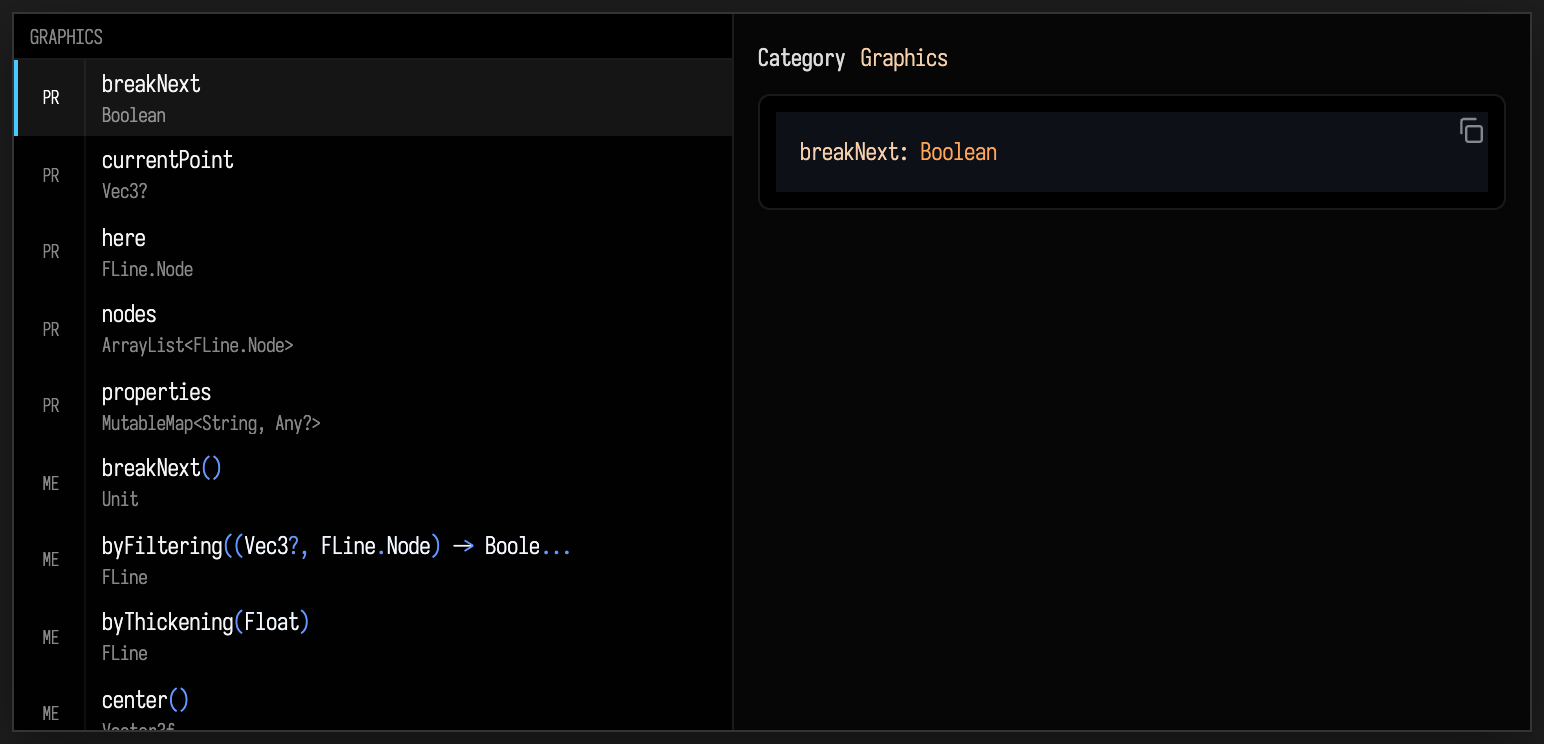
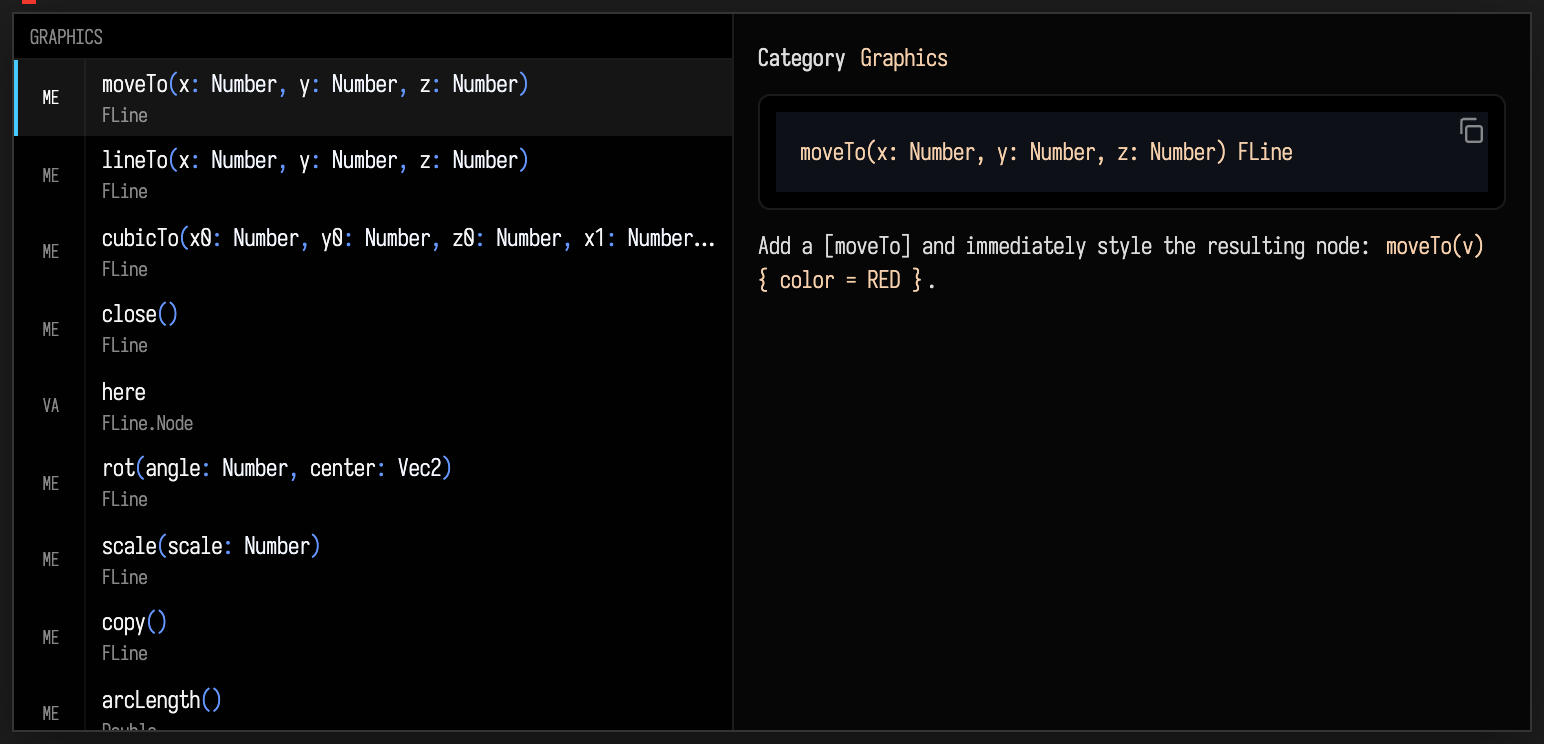
docs(completion): re-cut the popup page for the backend it now captures
`how_the_popup_decides.md` was written against a figure of the K1 fallback, and said so at length
because at the time that was the honest reading of it. The docs build now captures the Analysis API
backend a user gets, so the figure shows FLine's eight `@CommonMembers` in declared order —
`moveTo`, `lineTo`, `cubicTo`, `close`, `here`, `rot`, `scale`, `copy`, then the first member the
class says nothing about — and three passages that rested on the old capture are no longer true.

Rewritten rather than deleted. "What the figure used to show, and why" keeps the whole episode: the
alphabetical rows, the interaction log's `25.988, 25.976, 25.964 …` descending by exactly the
`originalIndex * 0.012` tie-break with the prior at 0, and both defects behind it. A page whose
first figure once contradicted it should say so — that is the most instructive thing on it, and
deleting the evidence would leave the argument weaker than the page it replaced.

Also re-cut: the alt text (it described rows that are no longer there), the fence comment on what
`warm-completion=true` now buys, the re-run note (measured: this audit reproduced the popup
byte-for-byte and grades the prior table `jitter` at maxΔ9, not `identical`), section 3 on where
the receiver's qualified name comes from on each path, and troubleshooting item 2 — the prior is
now in play on the K1 path, so the thing to suspect during the first second is the *section*, which
[…]

diff --git a/public/docs/how_the_popup_decides.md b/public/docs/how_the_popup_decides.md
@@ -86,6 +86,12 @@ into a **1-based position**, or `0` for "this type said nothing". Resolution:
 - **hits and misses are both cached.** This runs per keystroke, and the overwhelmingly common answer
   is "this type has no annotation".
 
+The qualified name comes from the candidate itself when the Analysis API served the completion. When the
+K1 fallback did, no candidate carries one, and the server resolves the caret's receiver itself instead —
+the live value's own class, else the declared type, else the constructor called to make it. Without that
+the prior would be silently absent for the first `ctrl-space` after launch, which is the popup most
+people meet first; [what the figure used to show](#what-the-figure-used-to-show-and-why) is that story.
+
 The position rides across the wire as `Metadata.commonMemberRank`.
 
 ### 4. The browser scores every row
@@ -137,28 +143,32 @@ to first.
 ## Seeing it
 
 Both figures below are generated by the docs build against a live Field, on the machine that built
-this page. Neither is a drawing, and neither has been arranged to agree with the prose — the first one
-in fact contradicts what this page would have liked it to show, which is why the paragraphs under it
-are the most useful ones here.
+this page. Neither is a drawing, and neither has been arranged to agree with the prose. The first one
+spent its first days *contradicting* this page, which turned out to be the most useful thing it ever
+did: two real defects were hiding behind it, and [what the figure used to show](#what-the-figure-used-to-show-and-why)
+is now the best-documented part of this page.
 
-*For anyone re-running the build: `docs_capture_audit --repeat 2` grades the prior table `identical`
-and the popup `jitter`. The popup's clip has a few intermittent pixels at its extreme top-left, inside
-the padding and outside the panel; the rows, the section header and the doc panel are the same every
-time. The prior table is deterministic — if it ever changes, something real changed.*
+*For anyone re-running the build: measured 2026-08-18, `docs_capture_audit --repeat 2` reproduced the
+popup byte-for-byte across both runs, and graded the prior table `jitter` at maxΔ9 on 0.0056% of pixels
+— antialiasing, not content. Both are otherwise deterministic, so if either changes materially,
+something real changed. The popup's clip has also been seen to pick up a few dozen intermittent pixels
+at its extreme top-left, inside the padding and outside the panel; the rows, the section header and the
+doc panel have been identical every time.*
 
 The first is a real `ctrl-space`: a box containing `val f = FLine()` and a bare `f.`, driven by real
-keypresses, with the popup panel photographed while it is open. **Read it for the section, not for the
-prior** — the paragraph under it says why, and it is the most useful thing on this page.
+keypresses, with the popup panel photographed while it is open — and served by the same Analysis API
+backend an ordinary `./field.sh` session uses, which it was not until 2026-08-18.
 
-```diffstatic_runner {data-lang=kotlin capture="ui" region="window" clip-selector=".afield-suggest" warm-completion=true screenshot="assets/popup-decides-fline-dot.png" padding="6" wait="0" timeout="140" embed=true hidden=true name="popup-decides-fline-dot" alt="A real Field completion popup at a bare dot on an FLine. A single section header reads GRAPHICS. Under it, five rows marked PR: breakNext (Boolean), currentPoint (Vec3?), here (FLine.Node), nodes (ArrayList<FLine.Node>), properties (MutableMap<String, Any?>); then rows marked ME: breakNext() (Unit), byFiltering((Vec3?, FLine.Node) -> Boole..., FLine), byThickening(Float) (FLine), center(). The documentation panel on the right reads Category Graphics above a signature card showing breakNext: Boolean."}
+```diffstatic_runner {data-lang=kotlin capture="ui" region="window" clip-selector=".afield-suggest" warm-completion=true screenshot="assets/popup-decides-fline-dot.png" padding="6" wait="0" timeout="140" embed=true hidden=true name="popup-decides-fline-dot" alt="A real Field completion popup at a bare dot on an FLine. A single section header reads GRAPHICS. Under it, in this order: moveTo(x: Number, y: Number, z: Number), lineTo(same), cubicTo(x0: Number, y0: Number, z0: Number, x1: Number...), close(), here (FLine.Node), rot(angle: Number, center: Vec2), scale(scale: Number), copy(), then arcLength(). Those are FLine's eight @CommonMembers in declared order, followed by the first member the class says nothing about. The documentation panel on the right reads Category Graphics above a signature card for moveTo and its documentation."}
 // Fresh and deterministic: clear the recency store so nothing this machine happens to have accepted
 // before outranks the prior, and hide the run-tick overlay — all of it, not just `.tick_text.ok`,
 // since `f.` is deliberately incomplete Kotlin and any tick here would be the error-coloured one.
 // Known and measured, so that nobody re-derives it: an INTERMITTENT few dozen pixels can appear at
-// the very top-left of this clip, inside the padding and outside the panel itself. Present in three
-// captures of four, absent in the fourth; `docs_capture_audit --repeat 2` scored it at 0.0049% of
-// pixels, maxΔ214. Purely cosmetic and disclosed rather than papered over — the rows, the section
-// header and the doc panel are identical every time, which is everything this figure is for.
+// the very top-left of this clip, inside the padding and outside the panel itself. Seen in three
+// captures of four, scored at 0.0049% of pixels, maxΔ214; absent from both runs of the 2026-08-18
+// audit, which reproduced this figure byte-for-byte. Purely cosmetic and disclosed rather than papered
+// over — the rows, the section header and the doc panel are identical every time, which is everything
+// this figure is for.
 ui.eval("window.localStorage.removeItem('field.suggest.recency.v1'); var s=document.createElement('style');s.textContent='.tick_text{display:none !important}';document.head.appendChild(s);return 'setup';")
 ui.openEditor(id)
 ui.pause(700)
@@ -168,49 +178,72 @@ ui.press("Control+A")
 ui.type("val f = FLine()\nf.")
 ui.pause(400)
 ui.press("Control+Space")
-// warm-completion=true built the completion engine up front, so the enriched reply — the one that
-// carries a category and a commonMemberRank per row — arrives promptly. Wait for a row rather than
-// guessing a pause; a cold first completion can take seconds.
+// warm-completion=true builds the completion engine up front AND waits for the Analysis API session
+// to actually serve, so this is a photograph of the backend a user gets rather than of the K1 fallback
+// (which is what it was until 2026-08-18 — see below). Wait for a row rather than guessing a pause;
+// a cold first completion can take seconds.
 ui.waitForSelector(".afield-suggest-row", 20000.0)
 ui.pause(1400)
 ```
 
-**Read that figure carefully, because it is not showing you the prior working.** One `GRAPHICS` header
-and nothing else, which *is* the sectioning claim confirmed — every `FLine` member is categorised from
-where it is declared, so they all land in one section. But the order inside it is `breakNext,
-currentPoint, here, nodes, properties` and then `breakNext(), byFiltering, byThickening, center()`:
-properties alphabetically, then methods alphabetically. `moveTo`, position 1 in `FLine`'s
-`@CommonMembers`, is not in the visible top nine. **In that capture the prior contributed nothing.**
+**That is the prior working.** All eight of `FLine`'s `@CommonMembers` are there, in the order the
+annotation lists them — `moveTo`, `lineTo`, `cubicTo`, `close`, `here`, `rot`, `scale`, `copy` — and the
+first member the class says nothing about, `arcLength()`, comes ninth. One `GRAPHICS` header, which is
+the sectioning claim confirmed in the same picture: every `FLine` member is categorised from where it is
+declared, so they all land in one section, and inside one section the prior is free to decide.
 
-Field's own completion-interaction log for that exact interaction shows it in one number. All 80
-presented rows score `25.988, 25.976, 25.964, 25.952, 25.940, …` — each successive row exactly `0.012`
-lower, which is the `originalIndex * 0.012` tie-break and nothing else, descending from a constant equal
-to the `Graphics` category weight (26, as of `ee2d0655b`). Fuzzy is 0 at an empty prefix, recency is 0
-because the driver clears it, and the prior is 0. Category weight plus the server's order, no other term
-in play.
+### What the figure used to show, and why
 
-### Which is it — the harness, or your editor?
+This is worth a section rather than a footnote, because for its first days this figure showed the
+opposite and *nothing failed*. The rows were alphabetical — `breakNext`, `currentPoint`, `here`, `nodes`,
+`properties`, then `breakNext()`, `byFiltering`, `byThickening`, `center()` — with `moveTo` nowhere in the
+visible nine. Field's own completion-interaction log for that interaction gave the reason as one number:
+all 80 presented rows scored `25.988, 25.976, 25.964, …`, each exactly `0.012` below the one above,
+which is the `originalIndex * 0.012` tie-break and nothing else, descending from a constant equal to the
+`Graphics` category weight. Fuzzy is 0 at an empty prefix, recency is 0 because the driver clears it —
+and the prior was 0 on every row. Category weight plus the server's order, no other term in play.
 
-Those are very different facts, so what follows is measurement rather than inference. Read it before
-concluding anything about your own Field.
+Two defects, with one cause: `activeCompletionBackend` read `AA` in a process where nothing AA ever
+served a completion, and everything downstream believed the config rather than the log.
 
-**The figure above came from the docs build, and the docs build is the anomaly.** It starts Field with
-`./gradlew runJvm`. The thing that starts the Analysis API sidecar and exports its URL is `./field.sh`,
-the ordinary launcher, and nothing else. `AaCompletionClient` is explicit that with no URL configured it
-returns nothing and the caller falls through to K1. The capture Field's own log says exactly that:
+**The docs build was not exercising the backend a user gets.** It starts Field with `./gradlew runJvm`.
+`./field.sh` was the only thing in the tree that starts the Analysis API sidecar and exports its URL,
+and `AaCompletionClient` engages only when that URL is configured. So every completion figure in these
+docs was a photograph of the K1 fallback, and each capture's own log said so:
 
 ```text
 [info,completion] completion backend=K1 box='Untitled'(__docs_drive__) 2ms (AA→K1: no-sidecar-url)
 ```
 
-**An ordinary `./field.sh` session reaches the sidecar.** Measured in this same checkout: the launcher
-started one, it answered `{"ok":true,"backend":"k2-standalone"}`, and a real `ctrl-space` in that session
-logged `completion backend=AA … (44 candidates)`.
+The docs runner now starts, or reuses, the same sidecar `./field.sh` would; it warms that sidecar before
+a completion capture, because a fresh one answers *"session building"* for the first seconds of its life
+and falls back to K1 just as legitimately; and it **fails the fence** when the log for that capture says
+the completion fell back. A figure of the wrong backend is a wrong figure, and it should not be able to
+build green.
 
-**And on that path the prior has what it needs.** Asking that live sidecar's `/complete` for
-`val f = FLine()` then `f.`, with the running JVM's own classpath, returns **254 candidates, 248 of them
-carrying `receiverQualifiedName = afield.graphics.FLine`** — the exact key `CommonMemberPrior.rankOf`
-looks up. All eight of `FLine`'s common members are among them, across every overload:
+**And the prior was dropped whenever K1 served — which is not only the harness.** `CommonMemberPrior`
+keys on the receiver's *qualified* name, and only the sidecar's reply carries one; a K1 result names no
+receiver at all, so `rankOf(null, "moveTo")` returned 0. The server now resolves the caret's own
+receiver when the backend named none, so the prior applies on both paths. That matters to a person and
+not just to a build, because K1 serves every completion until the sidecar's session exists — including
+the first `ctrl-space` after launch. Two consecutive completions on one caret, from an ordinary session's
+log:
+
+```text
+completion backend=K1 … (AA→K1: empty: session building (warming up; using K1 meanwhile))
+completion backend=AA … 1616ms (44 candidates)
+```
+
+Measured after the fix on a K1-served `f.`: the server logs
+`completion prior-receiver resolved='afield.graphics.FLine'`, and the popup renders `moveTo`, `lineTo`,
+`cubicTo`, `close`, `here`, `scale`, `copy` — the declared order, out of the fallback backend.
+
+### What the sidecar returns for this caret
+
+Measured directly, since a figure shows nine rows and the panel has rather more than nine. Asking a live
+sidecar's `/complete` for `val f = FLine()` then `f.`, with the running JVM's own classpath, returns
+**254 candidates, 248 of them carrying `receiverQualifiedName = afield.graphics.FLine`** — the exact key
+`CommonMemberPrior.rankOf` looks up. All eight common members are among them, across every overload:
 
 | member | rows returned | all carry the receiver | prior position |
 |---|---|---|---|
@@ -223,21 +256,17 @@ looks up. All eight of `FLine`'s common members are among them, across every ove
 | `scale` | 11 | yes | 7 |
 | `copy` | 2 | yes | 8 |
 
-So: **the prior is not broken for someone typing in Field.** Thirty-seven rows over eight names — which
-is incidentally the clearest possible demonstration of why the annotation takes *names* rather than
-callable references, since one entry covers `scale`'s eleven overloads.
+Thirty-seven rows over eight names — which is incidentally the clearest possible demonstration of why
+the annotation takes *names* rather than callable references, since one entry covers `scale`'s eleven
+overloads.
 
-One caveat is genuinely a person's experience rather than a harness artefact, and it is narrow: **the
-first completion after launch is served by K1 while the sidecar's session is still being built.**
-Measured from that session's own log, two consecutive completions on the same caret:
-
-```text
-completion backend=K1 … (AA→K1: empty: session building (warming up; using K1 meanwhile))
-completion backend=AA … 1616ms (44 candidates)
-```
-
-So the very first `ctrl-space` in a fresh Field can come back without the prior and the next one has it.
-If your popup looks like the figure above, ask again before concluding anything.
+**What still differs between the two backends, now that the prior does not.** The first `ctrl-space`
+after launch is still K1-served, and a K1 result carries less than a sidecar result does: no
+`declaredIn`, so the section a row lands in is inferred from its name and its type rather than read off
+its declaration; no `declarationProximity`, so nothing pushes `also`/`apply`/`let` below the names that
+are about *this* type; and no expected-type match. The rows are the compiler's own, and the prior now
+applies — but the *sections* can be less trustworthy for a second or two. Your Field's log names the
+backend and the reason on every request, so this is never guesswork.
 
 !!! warning "A discriminator that did not discriminate"
 
@@ -437,10 +466,11 @@ was introduced to fix, in a different subsystem, found by writing about it — a
 In rough order of how often each turns out to be the answer:
 
 1. **It is in another section.** Check the header above it. Ranking cannot cross a section boundary.
-2. **The prior is not in play yet.** It arrives only when the Analysis API sidecar serves the
-   completion, and on a freshly launched Field the first request or two fall back to K1 while the
-   sidecar builds its session. Ask again. The tell is the first figure above: rows alphabetical within
-   one section. Your Field's own log names the backend and the reason on every request —
+2. **The section it landed in was inferred, not read.** On a freshly launched Field the first request
+   or two are served by K1 while the sidecar builds its session. The prior applies on that path too
+   (it did not until 2026-08-18), but a K1 result carries no `declaredIn`, so its category is guessed
+   from the row's name and type — and a row in the wrong section cannot be lifted out of it. Ask
+   again a second later. Your Field's own log names the backend and the reason on every request —
    `completion backend=AA … (N candidates)` or `backend=K1 … (AA→K1: <why>)`.
 3. **Its receiver is a foreign type.** A type you did not write has no `@CommonMembers` and now gets
    no borrowed category, so a bare dot on it is alphabetical. Type a letter or two; with a prefix,
@@ -459,11 +489,14 @@ In rough order of how often each turns out to be the answer:
 |---|---|
 | the annotation | `CommonMembers` in `src/jvmMain/kotlin/afield/util.kt` |
 | resolving it for a receiver | `src/jvmMain/kotlin/afield/CommonMemberPrior.kt` |
+| naming the receiver when the backend did not | `receiverQualifiedNameAtCompletion` in `KotlinCompletionSupport.kt` |
 | putting it on the wire | `Metadata.commonMemberRank` in `src/commonMain/kotlin/rpc.kt` |
 | categorising a candidate | `getCompletionCategoryForSymbol` in `KotlinSourceIndex.kt` |
 | scoring, sorting, sectioning, rendering | `src/commonMain/resources/fieldSuggest.js` |
 | the guard on listed names | `CommonMembersAnnotationTest` |
 | the guard on rank and presentation | `FieldSuggestPresentationTest` + `src/jvmTest/resources/fieldSuggest/probe.mjs` |
+| the guard on the prior surviving a K1 result | `CompletionPriorReceiverTest` |
+| the guard on which backend a figure captured | `tools/test_docs_runner_completion_backend.py` |
 | the internals, at length | `dev_docs/completion_aa_sidecar.md` |
 
 Symbol names rather than line numbers, on purpose: a line number in a page like this one is the most

diff --git a/dev_docs/small_language_anatomy.md b/dev_docs/small_language_anatomy.md
@@ -91,9 +91,9 @@ it is a literal token that must still appear somewhere in the cited file. The li
 | 11 | the list of editor language modules loaded at boot | `src/commonMain/resources/bootstrapMonaco.js:45` | `FIELD_LANGUAGE_MODULES` |
 | 12 | the one-at-a-time module loader, and why it is not one `require` | `src/commonMain/resources/bootstrapMonaco.js:59` | `loadFieldLanguageModules` |
 | 13 | the set of languages Field's own suggest widget serves | `src/commonMain/resources/fieldSuggest.js:8` | `DEFAULT_LANGUAGES` |
-| 14 | the gate that consults it | `src/commonMain/resources/fieldSuggest.js:1144` | `this.languages.has` |
-| 15 | client-side ranking (fuzzy + category + recency + contextScore) | `src/commonMain/resources/fieldSuggest.js:735` | `const rankItems` |
-| 16 | the `complete` RPC the browser sends | `src/commonMain/resources/fieldSuggest.js:1290` | `requestWithReply("complete"` |
+| 14 | the gate that consults it | `src/commonMain/resources/fieldSuggest.js:1174` | `this.languages.has` |
+| 15 | client-side ranking (fuzzy + category + recency + contextScore) | `src/commonMain/resources/fieldSuggest.js:759` | `const rankItems` |
+| 16 | the `complete` RPC the browser sends | `src/commonMain/resources/fieldSuggest.js:1320` | `requestWithReply("complete"` |
 | 17 | the server handler for it | `src/jvmMain/kotlin/afield/Server.kt:2191` | `handlers["complete"]` |
 | 18 | the polymorphic hop into the language's own completion | `src/jvmMain/kotlin/afield/Server.kt:2197` | `box.ke.complete` |
 | 19 | the sibling hover/doc route | `src/jvmMain/kotlin/afield/Server.kt:2218` | `handlers["symbol-context"]` |
@@ -379,7 +379,7 @@ itself before the compiler runs.
 | the throw that means expansion did not happen | `src/jvmMain/kotlin/afield/macros/RewriteDsl.kt:62` | `private fun erased` |
 | the metavariable kinds | `src/jvmMain/kotlin/afield/macros/RewriteDsl.kt:34` | `sealed interface MetaKind` |
 | the expander | `src/jvmMain/kotlin/afield/macros/PatternRewrite.kt:76` | `object PatternRewrite` |
-| where the REPL calls it | `src/jvmMain/kotlin/afield/KotlinInterface2.kt:2549` | `PatternRewrite.expand` |
+| where the REPL calls it | `src/jvmMain/kotlin/afield/KotlinInterface2.kt:2595` | `PatternRewrite.expand` |
 | its smoke test | `src/jvmMain/kotlin/afield/PatternRewriteSmokeTest.kt:14` | `kotlin.pattern-rewrite.smoke` |
 
 The design idea is worth stating plainly, because it is not obvious and it is cheap: **a rule body only
@@ -427,18 +427,18 @@ Note the path: the hooks module is `public/docs_hooks.py`, **not** `tools/docs_h
 
 | what | site | anchor |
 | --- | --- | --- |
-| the fence names | `public/docs_hooks.py:42` | `RUNNER_TARGETS` |
-| the two that execute | `public/docs_hooks.py:48` | `RUNNER_FENCES` |
-| the function that finds and runs them | `public/docs_hooks.py:1899` | `def process_markdown` |
-| where the build imports the hooks | `tools/build_zensical_docs.py:211` | `import docs_hooks` |
-| the full attribute set of a runner fence | `public/docs_hooks.py:216` | `class RunnerOptions` |
-| where every fence attribute is parsed | `public/docs_hooks.py:2121` | `def parse_runner_options` |
-| where `data-lang=` is read | `public/docs_hooks.py:2311` | `def fence_language_key` |
-| **per-language wrapping of the fence body** | `public/docs_hooks.py:2316` | `def wrap_runnable_code_for_language` |
-| **per-language box construction** | `public/docs_hooks.py:3840` | `elif language == "fieldml":` |
-| the accepted `capture=` modes | `public/docs_hooks.py:2144` | `if capture not in` |
-| `capture="ui"` drives the live editor | `public/docs_hooks.py:1564` | `drive the live editor` |
-| the still capture for `capture="box"` | `public/docs_hooks.py:4031` | `screenshot-box` |
+| the fence names | `public/docs_hooks.py:43` | `RUNNER_TARGETS` |
+| the two that execute | `public/docs_hooks.py:49` | `RUNNER_FENCES` |
+| the function that finds and runs them | `public/docs_hooks.py:2134` | `def process_markdown` |
+| where the build imports the hooks | `tools/build_zensical_docs.py:242` | `import docs_hooks` |
+| the full attribute set of a runner fence | `public/docs_hooks.py:241` | `class RunnerOptions` |
+| where every fence attribute is parsed | `public/docs_hooks.py:2356` | `def parse_runner_options` |
+| where `data-lang=` is read | `public/docs_hooks.py:2546` | `def fence_language_key` |
+| **per-language wrapping of the fence body** | `public/docs_hooks.py:2551` | `def wrap_runnable_code_for_language` |
+| **per-language box construction** | `public/docs_hooks.py:4075` | `elif language == "fieldml":` |
+| the accepted `capture=` modes | `public/docs_hooks.py:2379` | `if capture not in` |
+| `capture="ui"` drives the live editor | `public/docs_hooks.py:1792` | `drive the live editor` |
+| the still capture for `capture="box"` | `public/docs_hooks.py:4266` | `screenshot-box` |
 
 `diffstatic {data-lang=x}` is highlighted and not executed; `diffstatic_runner {…}` is executed in a
 real box in a real Field and its screenshot, video or audio is captured. There are **6** `capture=`

diff --git a/dev_docs/completion_aa_sidecar.md b/dev_docs/completion_aa_sidecar.md
@@ -104,19 +104,19 @@ the same non-reentrant dispatcher used elsewhere (see the `warmCompletion` note 
 
 ### 2.3 `KotlinInterface2.complete()` — backend switch
 
-`KotlinInterface2.complete(s, cursor)` (`KotlinInterface2.kt:551#override suspend fun complete(s: String, cursor: Int)`) is the fork:
+`KotlinInterface2.complete(s, cursor)` (`KotlinInterface2.kt:552#override suspend fun complete(s: String, cursor: Int)`) is the fork:
 
-- If `KotlinEngineConfig.activeCompletionBackend == AA` (`KotlinInterface2.kt:560#activeCompletionBackend ==`):
+- If `KotlinEngineConfig.activeCompletionBackend == AA` (`KotlinInterface2.kt:561#activeCompletionBackend ==`):
   1. gather the box's inherited preamble: `normalizePreambleText(gatherPreambleUpwards(box))`
-     (`KotlinInterface2.kt:561#normalizePreambleText(gatherPreambleUpwards`; `gatherPreambleUpwards` in `macros/macros.kt:117#fun gatherPreambleUpwards`,
+     (`KotlinInterface2.kt:562#normalizePreambleText(gatherPreambleUpwards`; `gatherPreambleUpwards` in `macros/macros.kt:117#fun gatherPreambleUpwards`,
      `normalizePreambleText` in `stdlib/shaders.kt:2569#fun normalizePreambleText`).
   2. collect implicit receiver type names (e.g. `afield.Box`).
   3. call `AaCompletionClient.complete(s, cursor, completionPreamble, receiverTypes)` on
      `Dispatchers.IO` (`KotlinInterface2.kt:565-566`).
   4. If AA **served** the result, log `backend=AA … (detail)` and return it (`KotlinInterface2.kt:569-571`).
-  5. Otherwise log `backend=K1 … (AA→K1: detail)` and fall through (`KotlinInterface2.kt:573#if (outcome.served)`).
+  5. Otherwise log `backend=K1 … (AA→K1: detail)` and fall through (`KotlinInterface2.kt:574#if (outcome.served)`).
 - Otherwise (backend `K1`, or after an AA miss) it calls `k1CompletionDelegate().complete(s, cursor)`
-  (`KotlinInterface2.kt:577#backend=K1`).
+  (`KotlinInterface2.kt:578#backend=K1`).
 
 Every request logs which backend actually served it on the `completion` log channel, so the source of any
 given completion is never a mystery.
@@ -169,7 +169,7 @@ so the client sees a clean "server-fail" and falls back to K1, never an HTTP err
 
 #### What `AaCompleter` does with the Analysis API (`AaCompletion.kt`)
 
-`AaCompleter.complete()` (`AaCompletion.kt:741#fun complete(`) reconstructs the box's editing context as a synthetic,
+`AaCompleter.complete()` (`AaCompletion.kt:740#fun complete(`) reconstructs the box's editing context as a synthetic,
 compilable, **in-memory dangling `KtFile`** and asks the Analysis API what's in scope at the caret:
 
 - **Preamble → local stubs, *and* file scope.** A dangling file's own *top-level* declarations don't
@@ -654,7 +654,7 @@ branch resolves from the qualified expression and was left byte-for-byte alone.
 Standalone AA **cannot** enumerate a *binary* package's members by prefix
 (`packageScope.callables(nameFilter)` returns empty for binary packages), but it *can* resolve them by
 exact name (`findTopLevelCallables`, `findClassLike`, `findTypeAlias`). So `AaSymbolIndex`
-(`AaCompletion.kt:289#data class AaSymbolIndex`) scans the binary classpath roots once with ASM to learn which callable /
+(`AaCompletion.kt:288#data class AaSymbolIndex`) scans the binary classpath roots once with ASM to learn which callable /
 classifier / type-alias names exist per imported package, then AA resolves them on demand by exact name.
 The index is disk-cached under the sidecar scratch dir, keyed by a stat-only classpath fingerprint
 (`buildOrLoad`, `:112`; fingerprint `:130`), so a recompile transparently rebuilds it and an unchanged

diff --git a/dev_docs/fline_fill_orientation.md b/dev_docs/fline_fill_orientation.md
@@ -3,7 +3,7 @@
 *2026-08-02.*
 
 Everything that turns a **filled** `FLine` into triangles funnels into one place:
-`FLine.tessellate` (`src/jvmMain/kotlin/afield/graphics/FLine.kt:1014#fun tessellate`). It flattens
+`FLine.tessellate` (`src/jvmMain/kotlin/afield/graphics/FLine.kt:1019#fun tessellate`). It flattens
 the line into rings and hands them to `PlanarTessellation`
 (`src/jvmMain/kotlin/afield/graphics/PlanarTessellation.kt:170#fun tessellate`), which groups them into planes,
 works out which rings are holes in which, and hands each group to `FloatEarcut`.
@@ -297,7 +297,7 @@ So there is now one implementation — `PlanarTessellation` — and two thin ada
 
 | | |
 |---|---|
-| `FLine.tessellate` (`FLine.kt:1014#fun tessellate`) | flattens and sanitises, then packs each returned polygon's own vertices |
+| `FLine.tessellate` (`FLine.kt:1019#fun tessellate`) | flattens and sanitises, then packs each returned polygon's own vertices |
 | `EarcutFaceTriangulator` (`polytope/FieldAdapters.kt:214#object EarcutFaceTriangulator`) | reads a `Realization3` and maps the returned `(ring, vertex)` references back to realization indices |
 
 `EarcutFaceTriangulator` therefore *gained* hole support, through a new

diff --git a/public/docs/reference/index.md b/public/docs/reference/index.md
@@ -149,7 +149,7 @@ The "documented" column is the honest one: it is a coverage report on Field's ow
 | [ParamQuery.kt](synthesis.md#paramquery-kt) | Synthesis | 57 | 4 | The synth-facing head of the graph-query layer: turn a `PathSet` into a set of *drivable parameters*. | [Querying object graphs](../graph_query.md) |
 | [PatAlgebra.kt](patterns.md#patalgebra-kt) | Patterns | 66 | 65 |  | [Petri nets: rhythm, structure and control, in one graph](../petri_nets.md), [Sonic Pi](../sonic_pi.md) |
 | [PatClock.kt](patterns.md#patclock-kt) | Patterns | 14 | 0 |  |  |
-| [PatComposition.kt](patterns.md#patcomposition-kt) | Patterns | 53 | 53 |  | [Patterns: writing rhythm as a function of time](../pattern_language.md) |
+| [PatComposition.kt](patterns.md#patcomposition-kt) | Patterns | 53 | 53 |  | [Patterns: writing rhythm as a function of time](../pattern_language.md), [How the popup decides](../how_the_popup_decides.md) |
 | [PatFunctions.kt](patterns.md#patfunctions-kt) | Patterns | 48 | 6 |  |  |
 | [PatOnsetDetection.kt](patterns.md#patonsetdetection-kt) | Patterns | 14 | 8 |  |  |
 | [PatPatternReturnValue.kt](patterns.md#patpatternreturnvalue-kt) | Patterns | 1 | 0 |  |  |

diff --git a/dev_docs/kdoc_reference_contract.md b/dev_docs/kdoc_reference_contract.md
@@ -152,9 +152,9 @@ will not reach the page. The guard treats them as benign, annotated or not.
 
 This is the part that surprises people, and it has already caused one confident misattribution. The
 generated pages carry `Used in:` back-links, and those are *derived from the docs pages themselves*,
-not from KDoc. `StdlibReferenceGenerator.buildEvidenceIndex` (`StdlibReferenceGenerator.kt:1026#private fun buildEvidenceIndex`)
+not from KDoc. `StdlibReferenceGenerator.buildEvidenceIndex` (`StdlibReferenceGenerator.kt:1045#private fun buildEvidenceIndex`)
 lists **every** `public/docs/*.md` except the nine in `EVIDENCE_PAGE_BLOCKLIST`
-(`StdlibReferenceGenerator.kt:305#EVIDENCE_PAGE_BLOCKLIST`), reduces each to its *code* text only — fenced blocks plus
+(`StdlibReferenceGenerator.kt:320#EVIDENCE_PAGE_BLOCKLIST`), reduces each to its *code* text only — fenced blocks plus
 inline code spans, with bare filename spans dropped (`codeTextOf`, `:1091`) — and links a page to
 a source file when at least `MIN_EVIDENCE_HITS` = 2 (`:94`) tokens that are **uniquely owned** by
 that one file (ownership built at `:1038-1040`, applied at `:1049`) match in it.

diff --git a/dev_docs/arc_length_spacing.md b/dev_docs/arc_length_spacing.md
@@ -114,7 +114,7 @@ main source (`FLinesAndJavaShapes.kt:810#return PathFlattener(this.on, tol)`, in
 `src/`. So this is the cost of geometry operations, not of frames.
 
 **Field has a second, independent flattener, and it is the one that draws.** `StandardDrawing.linesOut`
-(`graphics/StandardDrawing.kt:206#f.uniform_linearize(samplesPerCubic`) calls `FLine.uniform_linearize` (`FLine.kt:857#Unused parameters:`), which emits a fixed
+(`graphics/StandardDrawing.kt:206#f.uniform_linearize(samplesPerCubic`) calls `FLine.uniform_linearize` (`FLine.kt:862#Unused parameters:`), which emits a fixed
 `samplesPerCubic` (default 100) samples per `CubicTo` at **uniform parameter**; fills reach the same
 function through `FLine.tessellate`, and `ThreeJsViewer.kt` is a third caller. Nothing on that path
 constructs a `PathFlattener` or a `Cursor`.

diff --git a/dev_docs/COMPLETION_ENGINE.md b/dev_docs/COMPLETION_ENGINE.md
@@ -41,7 +41,7 @@ delegate bootstraps `gatherPreambleUpwards(box)` with `Box` as an implicit recei
 
 1. **`@exported` members surface under their underscore alias.** A member marked `@exported`
    (also `@rootExported` / `@metarootExported`) in an ancestor box is republished under its
-   underscore alias — `exportedAlias(name)` = `_name` (`KotlinInterface2.kt:3085#private fun exportedAlias`) — onto the
+   underscore alias — `exportedAlias(name)` = `_name` (`KotlinInterface2.kt:3131#private fun exportedAlias`) — onto the
    box / root / metaroot (`processExportedFunction` → `Box.setPropertyRaw` +
    `upsertExportedDeclaration`) and inherited downward. **Completion in a descendant box must
    offer the `_name` alias** (e.g. an exported `foo()` → `_foo`).

diff --git a/dev_docs/FLineGeometry.md b/dev_docs/FLineGeometry.md
@@ -19,7 +19,7 @@ works, the class of curve it got wrong until 2026-07-31, and the measured
 before/after.
 
 Filling an `FLine` goes somewhere else entirely: `FLine.tessellate`
-(`src/jvmMain/kotlin/afield/graphics/FLine.kt:1014#fun tessellate`) flattens the line into rings and hands them to
+(`src/jvmMain/kotlin/afield/graphics/FLine.kt:1019#fun tessellate`) flattens the line into rings and hands them to
 `PlanarTessellation` (`src/jvmMain/kotlin/afield/graphics/PlanarTessellation.kt:170#fun tessellate`), which clusters
 them into planes, decides which rings are holes in which *within* a plane, and triangulates each
 group with `FloatEarcut` on an orientation-preserving projected frame. It is the only triangulator:

diff --git a/public/docs/reference/patterns.md b/public/docs/reference/patterns.md
@@ -229,7 +229,7 @@ A named parameter pattern waiting to be attached to some atoms.
 
 `src/jvmMain/kotlin/afield/four/synth/PatComposition.kt`
 
-**Used in:** [Patterns: writing rhythm as a function of time](../pattern_language.md)
+**Used in:** [Patterns: writing rhythm as a function of time](../pattern_language.md), [How the popup decides](../how_the_popup_decides.md)
 
 ### Top-level functions { #patcomposition-kt-functions }
 
